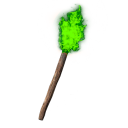
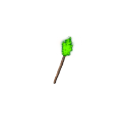
Adding unlit torch

Changed region(s): [[0.2812, 0.0312, 0.7188, 0.9688]]

diff --git a/BattleTowers/src/main/java/BattleTowers/relics/Torch.java b/BattleTowers/src/main/java/BattleTowers/relics/Torch.java
@@ -1,9 +1,11 @@
 package BattleTowers.relics;
 
+import BattleTowers.room.BattleTowerRoom;
 import BattleTowers.util.TextureLoader;
 import basemod.abstracts.CustomRelic;
 import com.megacrit.cardcrawl.core.CardCrawlGame;
 import com.megacrit.cardcrawl.localization.RelicStrings;
+import com.megacrit.cardcrawl.rooms.AbstractRoom;
 
 import static BattleTowers.BattleTowers.makeID;
 import static BattleTowers.BattleTowers.makeRelicPath;
@@ -20,5 +22,12 @@ public class Torch extends CustomRelic {
     @Override
     public String getUpdatedDescription() {
         return DESCRIPTIONS[0];
+    }
+
+    @Override
+    public void onEnterRoom(AbstractRoom room) {
+        if(!(room instanceof BattleTowerRoom)) {
+            setTexture(TextureLoader.getTexture(makeRelicPath("unlitTorch.png")));
+        }
     }
 }

diff --git a/BattleTowers/src/main/java/BattleTowers/events/NewBonfireEvent.java b/BattleTowers/src/main/java/BattleTowers/events/NewBonfireEvent.java
@@ -66,11 +66,9 @@ public class NewBonfireEvent extends PhasedEvent {
 
                     switch(c.rarity) {
                         case CURSE:
-                            AbstractDungeon.player.damage(new DamageInfo(null, 10));
                             transitionKey("Curse");
                             break;
                         case BASIC:
-                            AbstractDungeon.player.damage(new DamageInfo(null, 10));
                             transitionKey("Basic");
                             break;
                         case SPECIAL:

diff --git a/BattleTowers/src/main/java/BattleTowers/BattleTowers.java b/BattleTowers/src/main/java/BattleTowers/BattleTowers.java
@@ -284,7 +284,8 @@ public class BattleTowers implements
         BaseMod.addRelic(new WarBannerCultist(), RelicType.SHARED);
         BaseMod.addRelic(new WarBannerLouse(), RelicType.SHARED);
         BaseMod.addRelic(new WarBannerNob(), RelicType.SHARED);
-        }
+        BaseMod.addRelic(new Torch(), RelicType.SHARED);
+    }
         
     public static String removeModId(String id) {
         if (id.startsWith(getModID() + ":")) {
